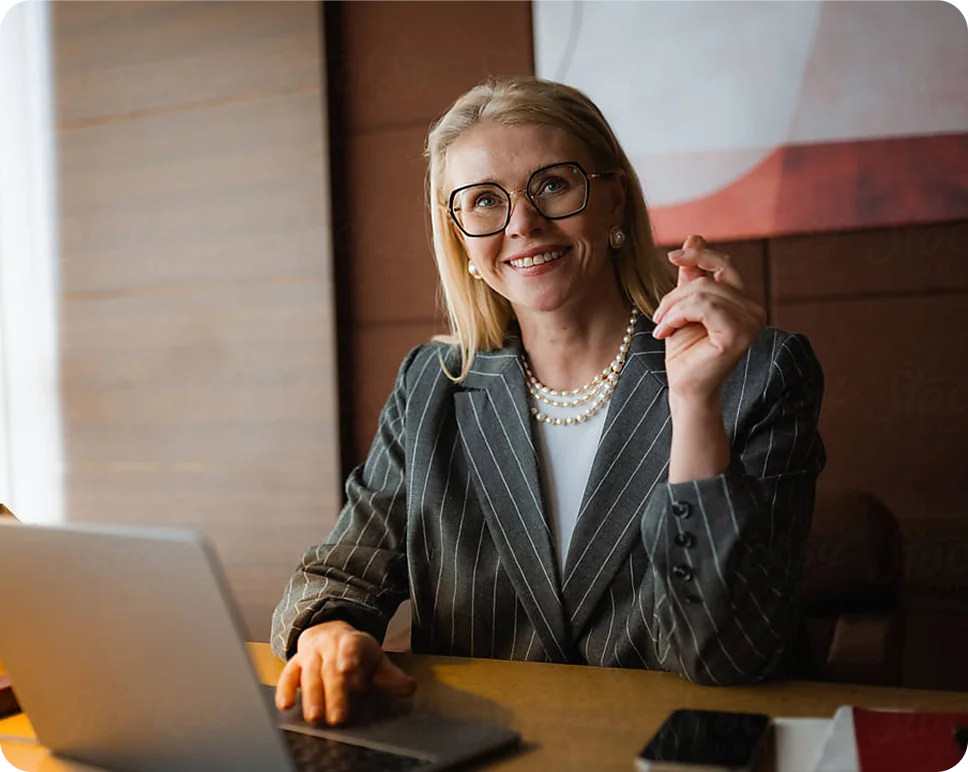
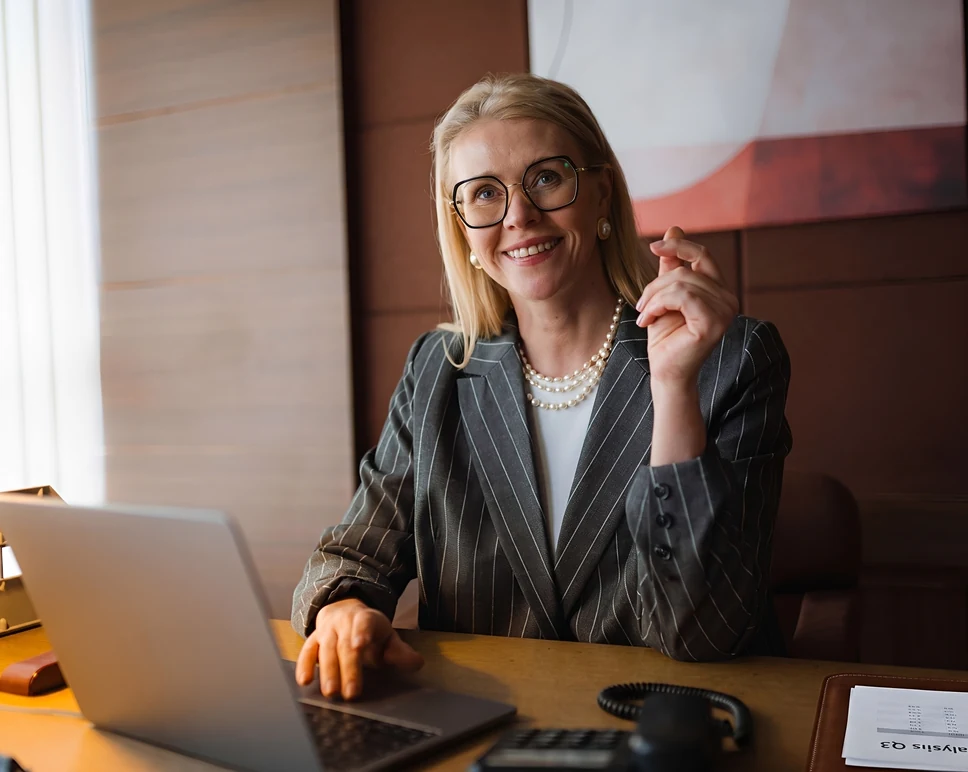
Implement website document page updates

diff --git a/app/data/attorney-landing-content.ts b/app/data/attorney-landing-content.ts
@@ -29,7 +29,7 @@ export const attorneyHeroContent = {
   secondaryCtaTo: '/attorney-application',
   image: {
     src: '/images/attorney-hero.webp',
-    alt: 'Attorney reviewing case materials at a desk.',
+    alt: 'A professional blonde woman wearing glasses, a pinstripe blazer, and a pearl necklace smiling confidently while working on a laptop at an executive office desk.',
     width: 968,
     height: 772
   }
@@ -37,18 +37,18 @@ export const attorneyHeroContent = {
 
 export const cdfaHeroContent = {
   eyebrow: 'Where Divorce Starts with the Numbers',
-  titleLines: ['Lead with Financial Clarity.', 'Build Your Practice.'],
+  titleLines: ['Financials First.', 'Build Your Practice.'],
   intro:
     'Help divorcing couples make better financial decisions from day one – with a structured process that puts your CDFA® expertise at the foundation, not fighting your way into the legal process.',
-  primaryCtaLabel: 'Watch Our Partner Briefing',
+  primaryCtaLabel: 'Watch the Partner Briefing',
   primaryCtaTo: cdfaWebinarPath,
   secondaryCtaLabel: 'Join the Partner Network',
   secondaryCtaTo: '/cdfa-application',
   image: {
-    src: '/images/for-professionals.webp',
-    alt: 'CDFA professional at a desk.',
-    width: 1056,
-    height: 1086
+    src: '/images/cdfa-hero.webp',
+    alt: 'A confident female professional in a grey suit jacket and glasses smiling in a brightly lit, open-concept office background.',
+    width: 968,
+    height: 772
   }
 } satisfies AttorneyHeroContent
 
@@ -196,7 +196,7 @@ export const attorneyMoreCasesContent = {
   linkTo: attorneyWebinarPath,
   image: {
     src: '/images/attorney-handle-more-cases.webp',
-    alt: 'Attorney working on case documents at a laptop.',
+    alt: 'A smiling professional man with glasses sitting at an office desk, holding a white document and looking forward in a modern office with a potted plant.',
     width: 1012,
     height: 766
   }
@@ -205,14 +205,14 @@ export const attorneyMoreCasesContent = {
 export const cdfaMoreCasesContent = {
   title: 'Get Qualified Referrals - Not Just Any Clients',
   body:
-    "Solagree pre-qualifies every client before matching them with a CDFA. You receive referrals for Solagree Compass cases—clients who already understand they need financial expertise and are committed to the process.\n\nNo more cold calls. No more trying to convince skeptical attorneys. Just qualified clients ready to work with you.",
+    'Skip the marketing headache and chasing dead ends. Solagree delivers pre-screened client referrals who understand the value of a CDFA® and are ready to move forward.',
   linkPrefix: 'Learn more in ',
   linkLabel: 'the briefing',
   linkSuffix: '.',
   linkTo: cdfaWebinarPath,
   image: {
-    src: '/images/attorney-handle-more-cases.webp',
-    alt: 'Financial professional reviewing client documents.',
+    src: '/images/cdfa-qualified-referrals.webp',
+    alt: 'An approachable male professional in a dark long-sleeve shirt smiling and waving during a video conference call from his office desk.',
     width: 1012,
     height: 766
   }
@@ -278,7 +278,7 @@ export const attorneyFitsPracticeContent = {
   ctaTo: attorneyWebinarPath,
   image: {
     src: '/images/attorney-see-if-fits.webp',
-    alt: 'Attorney partner consultation workspace.',
+    alt: 'A close-up cropped view of a professional wearing a geometric patterned blouse sitting at a light wooden desk, with their hand resting on a silver laptop trackpad next to an open notebook.',
     width: 1218,
     height: 545
   }
@@ -291,8 +291,8 @@ export const cdfaFitsPracticeContent = {
   ctaLabel: 'Watch Now',
   ctaTo: cdfaWebinarPath,
   image: {
-    src: '/images/attorney-see-if-fits.webp',
-    alt: 'CDFA partner consultation workspace.',
+    src: '/images/cdfa-practice-integration.webp',
+    alt: 'A close-up cropped view of a professional wearing a geometric patterned blouse sitting at a light wooden desk, with their hand resting on a silver laptop trackpad next to an open notebook.',
     width: 1218,
     height: 545
   }

diff --git a/app/components/about/AboutAudienceSection.vue b/app/components/about/AboutAudienceSection.vue
@@ -14,11 +14,11 @@ interface AboutAudienceCard {
     to: string
     suffix: string
   }
-  cta: {
+  ctas: readonly {
     label: string
     to: string
     variant: 'primary' | 'secondary'
-  }
+  }[]
 }
 
 const audienceCards: readonly AboutAudienceCard[] = [
@@ -26,7 +26,7 @@ const audienceCards: readonly AboutAudienceCard[] = [
     title: 'Considering Divorce',
     image: {
       src: '/images/about-considering-divorce.png',
-      alt: 'Person seated on a sofa using a laptop.',
+      alt: 'A young Black man wearing glasses sits cross-legged on a bed with pillows, holding a white coffee mug while looking down at an open silver laptop.',
       width: 946,
       height: 544
     },
@@ -37,27 +37,36 @@ const audienceCards: readonly AboutAudienceCard[] = [
       to: '/book-a-solagree-consult',
       suffix: ' or'
     },
-    cta: {
-      label: 'Take the Quiz',
-      to: '/quiz',
-      variant: 'primary'
-    }
+    ctas: [
+      {
+        label: 'Take the Quiz',
+        to: '/quiz',
+        variant: 'primary'
+      }
+    ]
   },
   {
     title: 'Attorneys & CDFAs',
     image: {
       src: '/images/about-attorneys-cdfas.png',
-      alt: 'Professional advisor working from a desk during a virtual call.',
+      alt: 'A blonde woman in a light blue blouse sits at a rustic wooden desk with a white coffee mug, smiling thoughtfully while looking at a laptop screen and writing with a pen.',
       width: 946,
       height: 544
     },
     heading: 'Join Our Network',
     body: "We're partnering with Attorneys and CDFAs nationwide who believe there's a better way to serve divorcing families.",
-    cta: {
-      label: 'Attorneys',
-      to: '/attorneys',
-      variant: 'secondary'
-    }
+    ctas: [
+      {
+        label: 'Attorneys',
+        to: '/attorneys',
+        variant: 'secondary'
+      },
+      {
+        label: 'CDFAs',
+        to: '/cdfa',
+        variant: 'secondary'
+      }
+    ]
   }
 ] as const
 </script>
@@ -107,14 +116,18 @@ const audienceCards: readonly AboutAudienceCard[] = [
           </div>
         </div>
 
-        <SiteButton
-          class="about-audience-card__button"
-          :class="`about-audience-card__button--${card.cta.variant}`"
-          :to="card.cta.to"
-          :variant="card.cta.variant"
-        >
-          {{ card.cta.label }}
-        </SiteButton>
+        <div class="about-audience-card__actions">
+          <SiteButton
+            v-for="cta in card.ctas"
+            :key="cta.label"
+            class="about-audience-card__button"
+            :class="`about-audience-card__button--${cta.variant}`"
+            :to="cta.to"
+            :variant="cta.variant"
+          >
+            {{ cta.label }}
+          </SiteButton>
+        </div>
       </article>
     </div>
   </section>

diff --git a/app/templates/co-branded-page.ts b/app/templates/co-branded-page.ts
@@ -40,7 +40,7 @@ const solagreeBasicTemplate = Handlebars.compile<CoBrandedPageTemplateContext>(`
       <img
         class="co-branded-page__hero-image"
         src="/images/co-branded-hero.webp"
-        alt="Attorney in a consultation"
+        alt="A professional woman with dark hair, a pink turtleneck, and a grey blazer sitting at a white desk with a keyboard, speaking and gesturing warmly during a video consultation."
       >
     </section>
 
@@ -66,7 +66,7 @@ const solagreeBasicTemplate = Handlebars.compile<CoBrandedPageTemplateContext>(`
         <img
           class="co-branded-page__what-is-image"
           src="/images/co-branded-who-its-for.webp"
-          alt="Family smiling while looking at a phone together"
+          alt="A smiling father with a graying beard sits on a white couch alongside his two sons, all laughing together while looking at a smartphone held by the younger boy."
         >
 
         <div class="co-branded-page__what-is-card">
@@ -139,7 +139,7 @@ const solagreeBasicTemplate = Handlebars.compile<CoBrandedPageTemplateContext>(`
       <img
         class="co-branded-page__attorney-guide-image"
         src="/images/co-branded-attorney-guides.webp"
-        alt="Attorney reviewing documents at a laptop"
+        alt="An East Asian professional woman wearing glasses and a grey blazer sits at a conference table, holding a white document in one hand while using a pen to navigate her open silver laptop."
       >
 
       <div class="co-branded-page__attorney-guide-content">
@@ -350,7 +350,7 @@ const solagreeBasicTemplate = Handlebars.compile<CoBrandedPageTemplateContext>(`
         <img
           class="co-branded-page__next-steps-image"
           src="/images/co-branded-next-steps.webp"
-          alt="Woman speaking by phone"
+          alt="A close-up view of a blonde woman wearing a crisp white button-down shirt, holding a black smartphone to her ear while listening intently during a call."
         >
       </div>
     </section>

diff --git a/app/assets/styles/components/_attorney-landing.scss b/app/assets/styles/components/_attorney-landing.scss
@@ -116,6 +116,30 @@
   object-position: center;
 }
 
+.cdfa-landing-page .attorney-hero-section {
+  background: #9b6a58;
+}
+
+.cdfa-landing-page .attorney-hero-section__eyebrow {
+  background: #e4e1f0;
+  color: var(--color-ink);
+}
+
+.cdfa-landing-page .attorney-hero-section__primary.sol-button {
+  border-color: #3e4059;
+  background: #3e4059;
+  color: var(--color-white);
+}
+
+.cdfa-landing-page .attorney-hero-section__primary.sol-button:hover {
+  border-color: #323449;
+  background: #323449;
+}
+
+.cdfa-landing-page .attorney-hero-section__primary .button-arrow-icon {
+  filter: brightness(0) invert(1);
+}
+
 .attorney-partner-paths-section {
   background: var(--color-page);
   padding: 94px 2rem 90px;
@@ -907,7 +931,7 @@
   }
 
   .attorney-hero-section__title {
-    font-size: 40px;
+    font-size: 38px;
   }
 
   .attorney-hero-section__intro {
@@ -941,7 +965,7 @@
   }
 
   .attorney-partner-paths-section__title {
-    font-size: 40px;
+    font-size: 38px;
   }
 
   .attorney-partner-paths-section__intro,

diff --git a/app/assets/styles/components/_about.scss b/app/assets/styles/components/_about.scss
@@ -373,10 +373,17 @@
   color: var(--color-heading);
 }
 
+.about-audience-card__actions {
+  display: flex;
+  flex-wrap: wrap;
+  justify-content: center;
+  gap: 0.75rem;
+  margin-top: 2.75rem;
+}
+
 .about-audience-card__button.sol-button {
   min-width: 153px;
   min-height: 49px;
-  margin-top: 2.75rem;
   padding: 14px 24px 15px;
   color: var(--color-heading);
   font-size: 1.125rem;
@@ -444,7 +451,7 @@
     gap: 2rem;
   }
 
-  .about-audience-card__button.sol-button {
+  .about-audience-card__actions {
     margin-top: 0;
   }
 }
@@ -459,7 +466,7 @@
   }
 
   .about-hero-section__title {
-    font-size: 3rem;
+    font-size: clamp(2.35rem, 10vw, 2.75rem);
     line-height: 1.08;
   }
 
@@ -559,5 +566,9 @@
   .about-audience-card__button.sol-button {
     width: min(100%, 210px);
     font-size: 1rem;
+  }
+
+  .about-audience-card__actions {
+    width: 100%;
   }
 }

diff --git a/app/components/webinar/WebinarRegistrationIntro.vue b/app/components/webinar/WebinarRegistrationIntro.vue
@@ -59,7 +59,17 @@ withDefaults(defineProps<WebinarRegistrationIntroProps>(), {
 
       <figcaption class="webinar-registration-intro__caption">
         <strong>{{ content.presenter.name }}</strong>
-        {{ content.presenter.captionSeparator ?? '-' }} {{ content.presenter.title }}
+        <span
+          :class="{ 'webinar-registration-intro__caption-title--block': content.presenter.titleLineBreak }"
+          class="webinar-registration-intro__caption-title"
+        >
+          <template v-if="content.presenter.titleLineBreak">
+            {{ content.presenter.title }}
+          </template>
+          <template v-else>
+            {{ content.presenter.captionSeparator ?? '-' }} {{ content.presenter.title }}
+          </template>
+        </span>
       </figcaption>
     </figure>
   </section>

diff --git a/app/data/webinar-registration.ts b/app/data/webinar-registration.ts
@@ -56,13 +56,13 @@ export const cdfaWebinarRegistrationContent = {
     'More cases, steady referrals, and predictable revenue – without adding overhead or marketing spend.',
   features: cdfaWebinarFeatures,
   presenter: {
-    imageSrc: '/images/for-professionals.webp',
+    imageSrc: '/images/courtney-cdfa-co-founder.png',
     imageAlt: 'Courtney Lutz-McLellan, CDFA, Solagree co-founder',
-    imageWidth: 1056,
-    imageHeight: 1086,
+    imageWidth: 826,
+    imageHeight: 562,
     name: 'Courtney Lutz-McLellan, CDFA®',
     title: 'Co-Founder Solagree',
-    captionSeparator: '–'
+    titleLineBreak: true
   },
   formSubtitle: 'Less than 5 minutes to see how it works for you.',
   formRedirectPath: '/webinar/cdfa/view',

diff --git a/app/components/about/AboutAttorneyGuidanceSection.vue b/app/components/about/AboutAttorneyGuidanceSection.vue
@@ -31,7 +31,7 @@
       >
         <img
           src="/images/about-attorney-guidance.png"
-          alt="Attorney speaking with clients at a conference table."
+          alt="A professional middle-aged man with a graying beard, glasses, and a gray tweed blazer sitting at a wooden desk, speaking directly forward while gesturing with his hands open."
           width="1012"
           height="848"
           loading="lazy"

diff --git a/app/components/about/AboutProcessSection.vue b/app/components/about/AboutProcessSection.vue
@@ -10,7 +10,7 @@
       >
         <img
           src="/images/about-process-around-people.png"
-          alt="Person relaxing at home with a mug."
+          alt="A smiling blonde woman wearing a light green knit turtleneck sweater sits on a brown leather couch, holding a colorful ceramic mug while looking warmly at her brown and white boxer dog."
           width="1050"
           height="1288"
           loading="lazy"

diff --git a/app/components/about/AboutHeroSection.vue b/app/components/about/AboutHeroSection.vue
@@ -30,7 +30,7 @@
       >
         <img
           src="/images/about-hero.png"
-          alt="Parent greeting their child at the door."
+          alt="A man in a tan suit holding a briefcase stands by an open wooden front door, holding his young daughter's hand as she waves goodbye to a woman standing in the foreground inside a home."
           width="968"
           height="930"
           loading="eager"

diff --git a/app/components/ForProfessionalsSection.vue b/app/components/ForProfessionalsSection.vue
@@ -56,7 +56,7 @@
         >
           <img
             src="/images/for-professionals.webp"
-            alt="Professional advisor seated at a desk."
+            alt="A professional blonde woman wearing glasses and a black blouse sitting at a wooden conference table, smiling warmly next to a clipboard and a modern bookshelf."
             width="1056"
             height="1086"
             loading="eager"

diff --git a/app/components/KidsSection.vue b/app/components/KidsSection.vue
@@ -11,7 +11,7 @@
       >
         <img
           src="/images/kids.webp"
-          alt="Parent crouching beside a child in a family home."
+          alt="A father kneeling on a hardwood floor inside a house, smiling warmly at his young daughter who is holding a book over her head."
           width="1050"
           height="1288"
           loading="eager"
